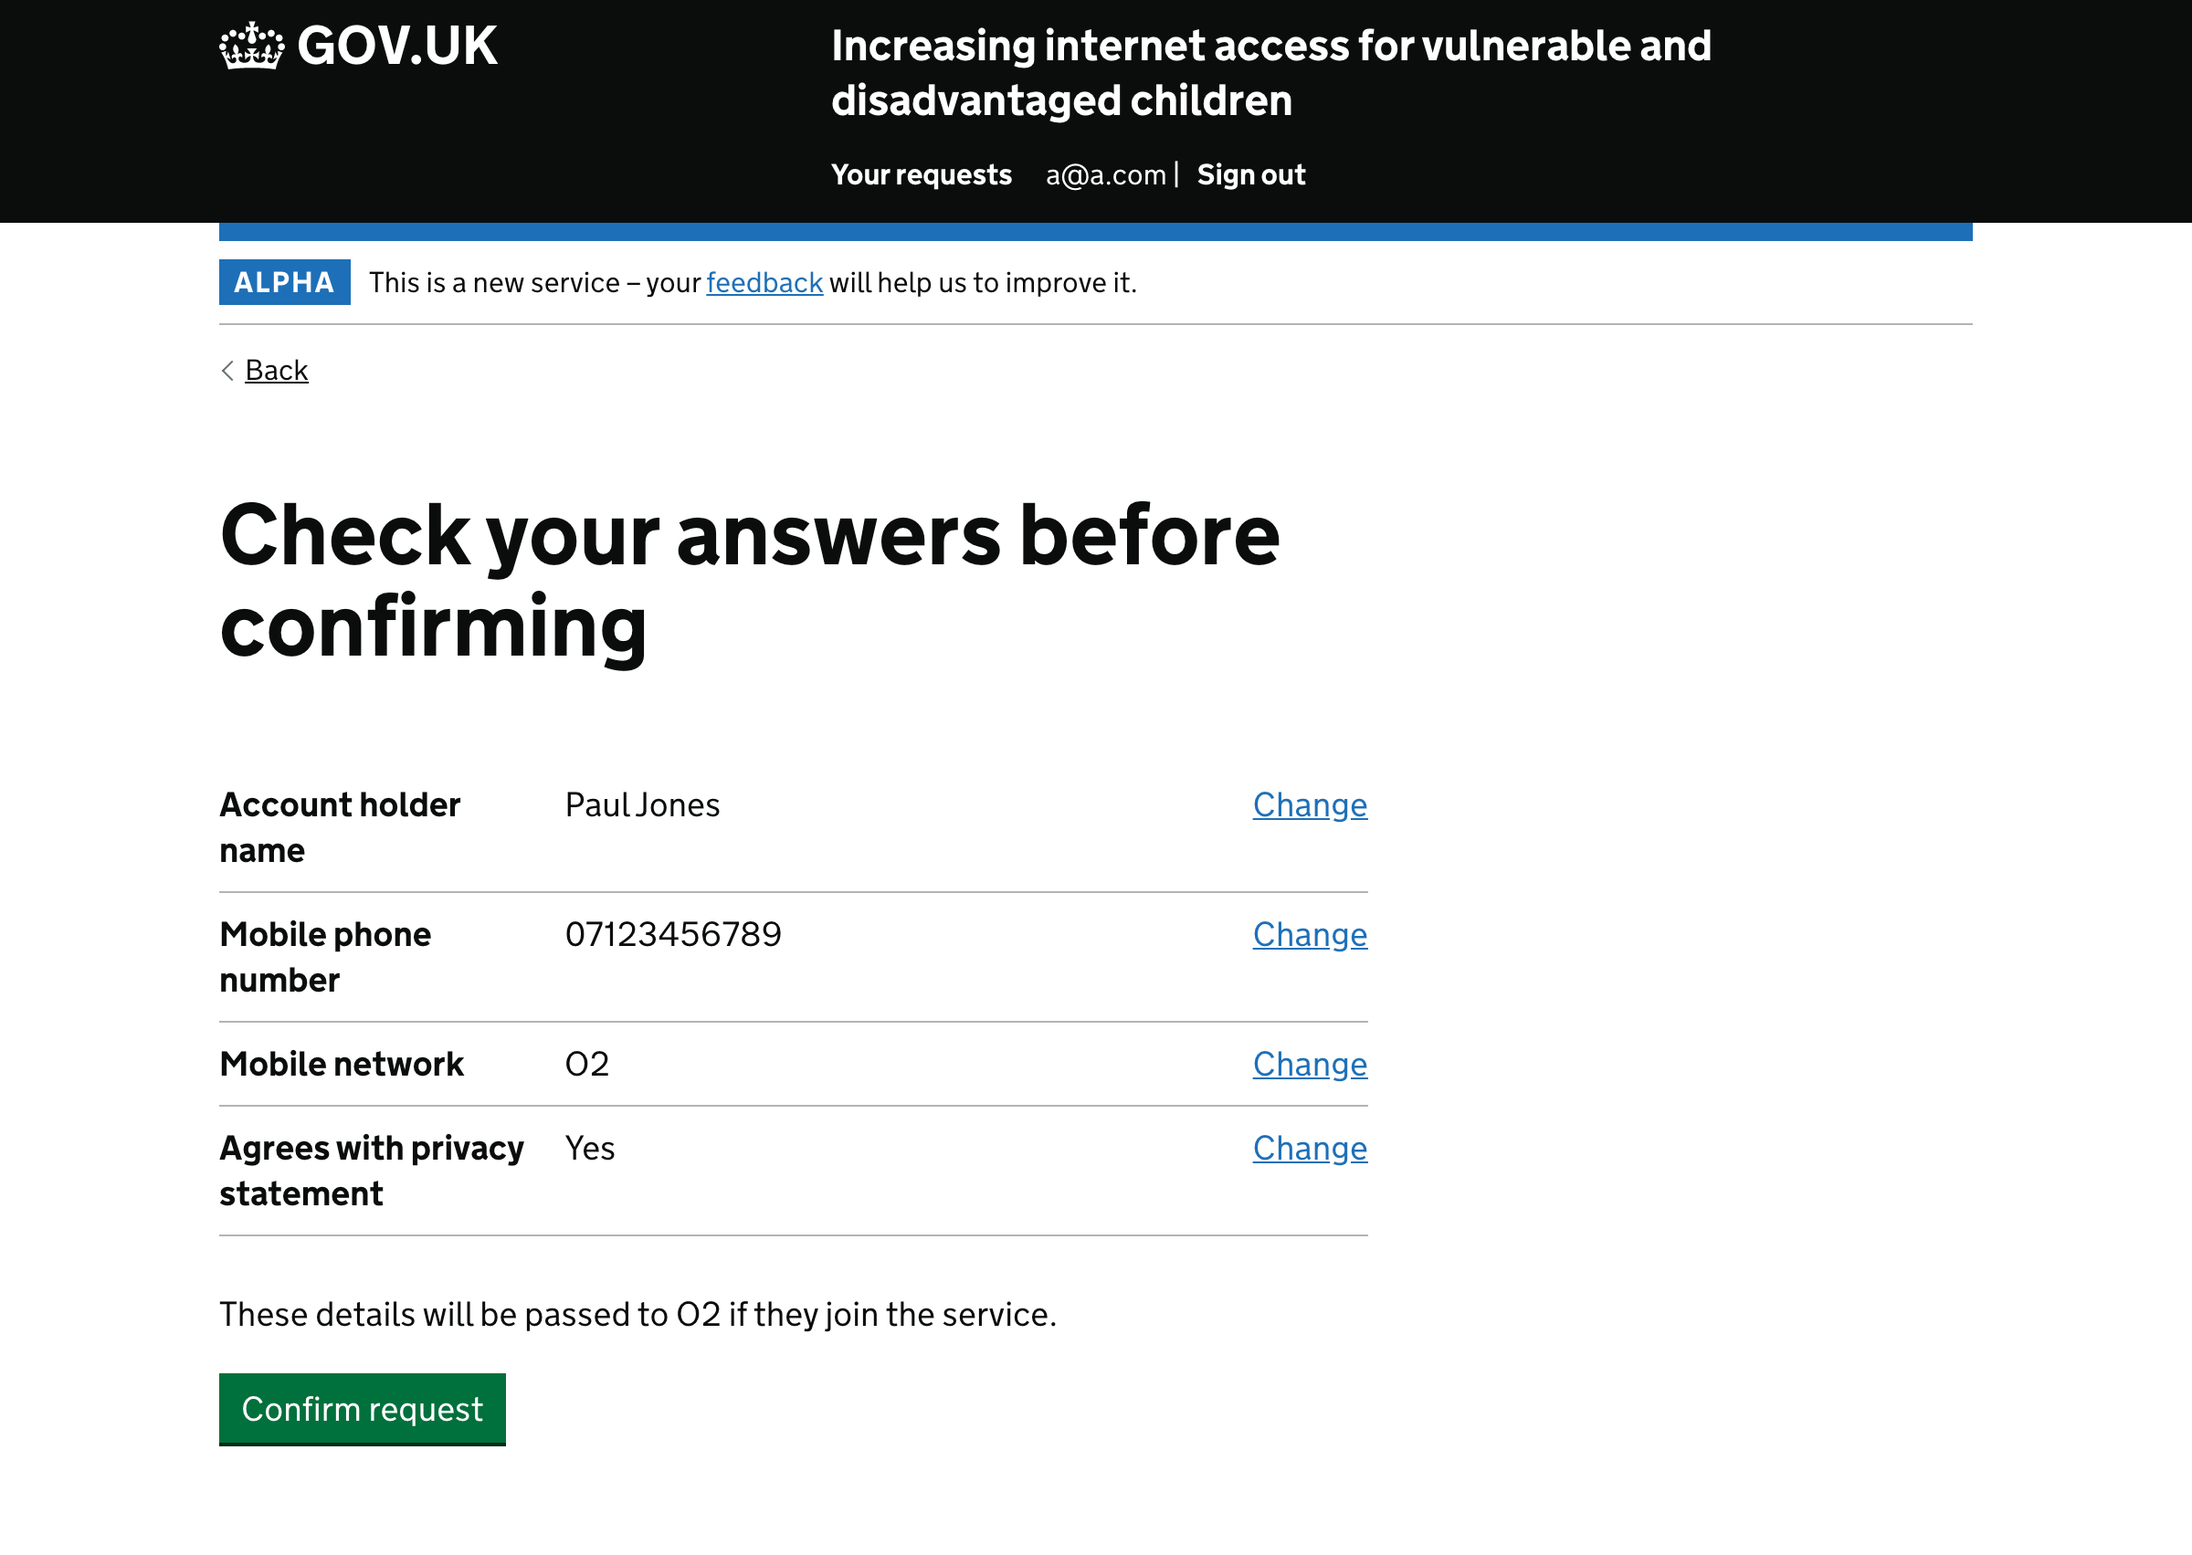
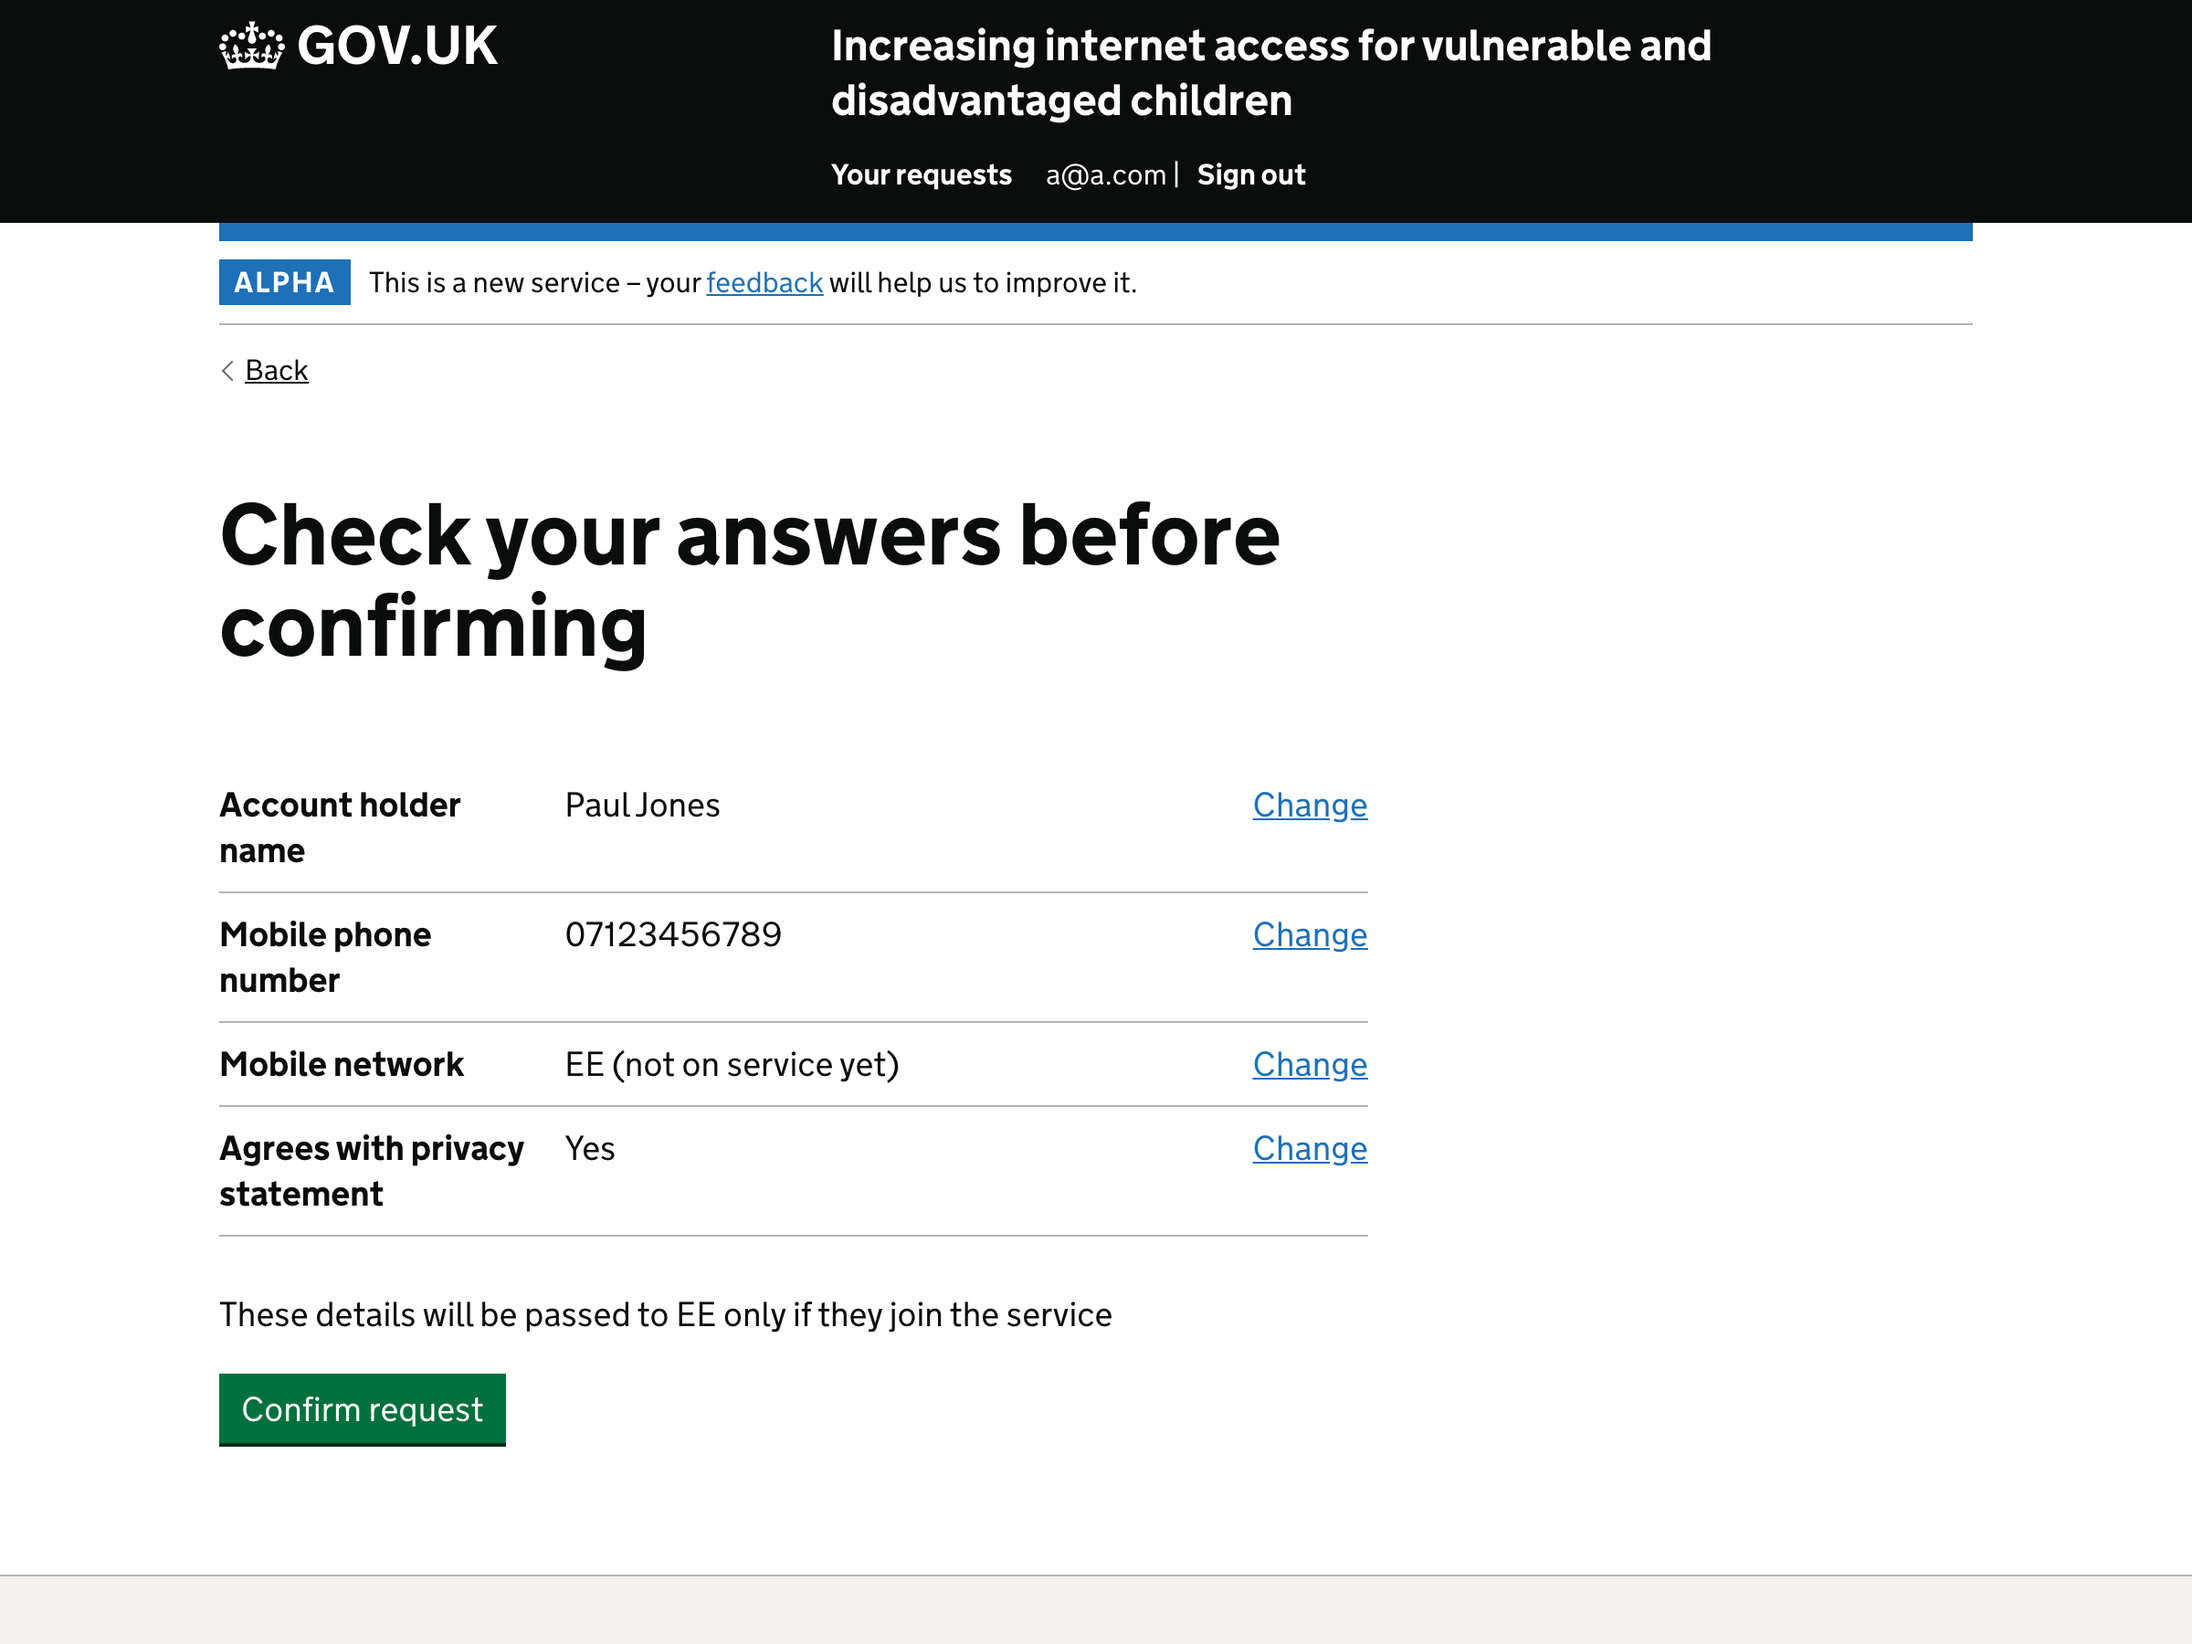
Tweak design of networks not on service

diff --git a/app/posts/2020-07-22-networks-not-in-the-pilot.md b/app/posts/2020-07-22-networks-not-in-the-pilot.md
@@ -25,7 +25,10 @@ Should a network join at a later time we should:
   items: [{
       text: "Check your answers messaging",
       img: { src: "01-check-your-answers.png" },
-      caption: "Append 'if they join the service' to the end of the check your answers message"
+      caption: "
+* Append 'not on service yet' to the end of the network name in summary list
+* Append 'only if they join the service' to the end of the check your answers message
+"
     }, {
       text: "Unavailable status",
       img: { src: "02-unavailable-status.png" },
